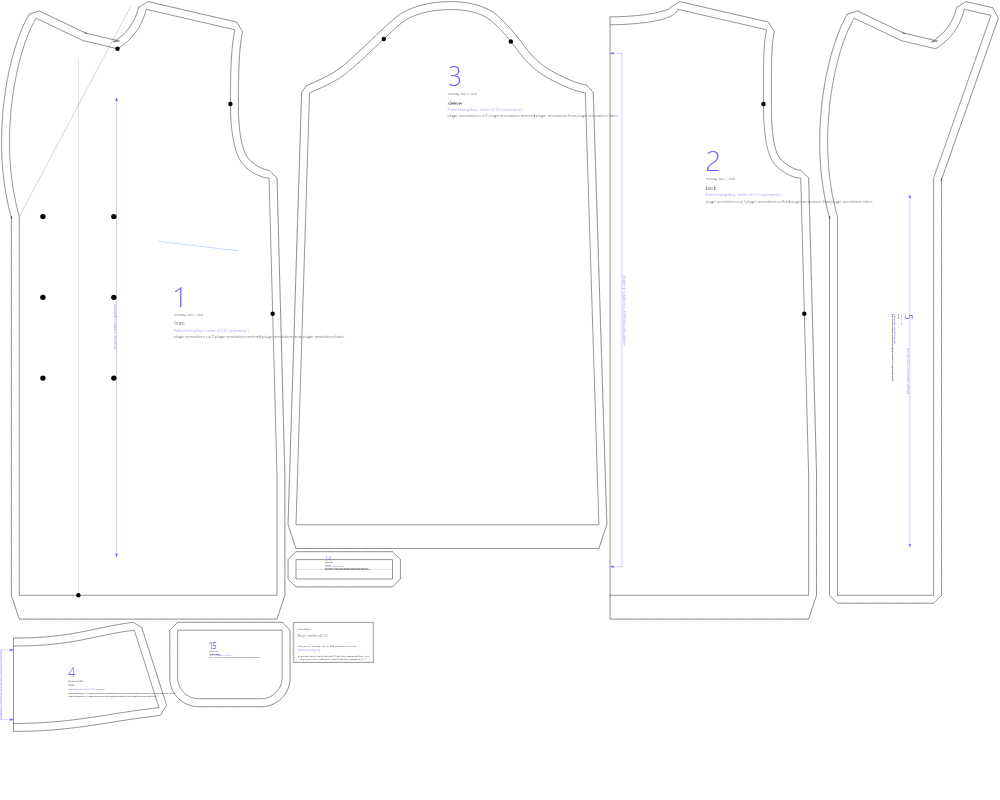
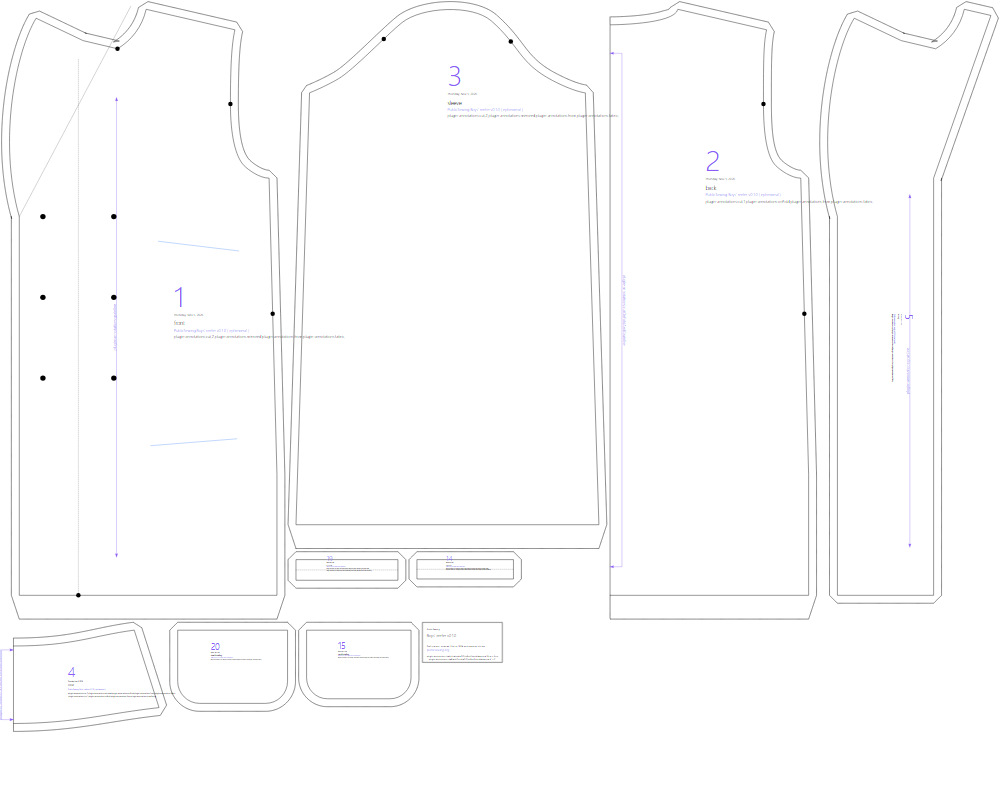
Add reefer lower welt pockets

diff --git a/designs/reefer/BRIEF.md b/designs/reefer/BRIEF.md
@@ -19,15 +19,15 @@ Diagram 23 gives single-breasted and double-breasted outlines on the same back a
 | Front | 2½ in from centre front, with buttons 4 in from edge | `buttonExtension` 8.6% of chest; `buttonRow` 60% of the extension, leaving 1½ in between the button and centre front |
 | Buttons | Three positions on the plate | Three pairs, from near the chest line to below the waist |
 | Collar | Regular collar and turned lapel | Narrower `ulster` collar and lapel on the peacoat's block |
-| Pocket | Slanted chest welt | The block's welt moved above the waist and shortened |
+| Pockets | Slanted chest welt and a lower pocket mark near the seat line | Two pairs of shallow welts: the upper moved above the waist, the lower starts at 38% of the front width and 82% of waist-to-seat below the waist; the lower mouth runs 45% of the front width and rises 8% toward the side |
 | Hem | Level, with spread at the side seams | Level; the Brian coat block has less flare |
 
 ## Changes and what isn't modelled
 
 - The source's single-breasted outline is not a variant: the inherited double-breasted front has two button rows, and a single-breasted version needs a different front draft.
-- The plate's second, lower pocket mark is omitted. The inherited block supplies one pair of welts; the reefer turns that welt to the source's shallow chest angle. Adding another pocket needs a separate placement and bag piece.
+- The lower mark has no drafting or construction instructions in Simons. Its welt and bag use the same construction as the chest welt, with position and angle read from the plate. The lower bag is raised as needed to clear the hem on short sizes.
 - The exact side-seam flare, centre-back shaping, and source collar construction are simplified to the Brian coat block. The source does not detail a lining or vent, so both are off.
 
 ## Pieces and construction
 
-Back, front, facing, collar, sleeves, and welt and pocket-bag pieces. Sew the welts and bags to the fronts; join back and shoulders and sides; add facings and collar; make and set sleeves; finish hem and buttonholes. The front is cut in mirrored pairs and closes right over left.
+Back, front, facing, collar, sleeves, and two pairs each of welt and pocket-bag pieces. Sew both welt pairs and their bags to the fronts; join back and shoulders and sides; add facings and collar; make and set sleeves; finish hem and buttonholes. The front is cut in mirrored pairs and closes right over left.

diff --git a/designs/README.md b/designs/README.md
@@ -78,7 +78,7 @@ without declaring them, so they are listed in our package.json.
 | `cape-overcoat/` | Simons' full-length cape overcoat: a whole back and separate foreparts with a wide button stand and military collar, on the cape family, Simons 1916 pp. 30-31 and 1922 Diagram 38. [BRIEF.md](cape-overcoat/BRIEF.md) | draft (not sewn) | not draped |
 | `dolman-cape/` | Dolman cape: Breanna's body with the shoulder run out and curved over the arm into a straight side seam, a bust dart, small darts on the back, Pivnick 1949 ch. XIX. [BRIEF.md](dolman-cape/BRIEF.md) | draft (not sewn) | not draped |
 | `peacoat/` | Hip-length double-breasted coat: the mackinaw with Simons' D.B. overcoat stand, three-button rows, notched lapel and deep ulster collar, slanted hand-warmer welt pockets, back vent and lining, no belt, on Brian, Simons 1916. [BRIEF.md](peacoat/BRIEF.md) | draft (not sewn) |
-| `reefer/` | Boys' double-breasted reefer: longer than the peacoat, with three button pairs, a narrower notched collar and a high slanted welt, Simons 1922 Diagram 23. [BRIEF.md](reefer/BRIEF.md) | draft (not sewn) | not draped |
+| `reefer/` | Boys' double-breasted reefer: longer than the peacoat, with three button pairs, a narrower notched collar and two pairs of shallow welts, Simons 1922 Diagram 23. [BRIEF.md](reefer/BRIEF.md) | draft (not sewn) | not draped |
 | `womens-box-coat/` | Women's loose box coat: straight body flared from the arms, shaped CB seam, neck dart, notched lapel, collar, buttons near the lapped edge, set-in flap pockets (hip and ticket), two-piece sleeves, on Breanna, Mitchell 1921. [BRIEF.md](womens-box-coat/BRIEF.md) | draft (not sewn) | OK, 2026-10-26 |
 | `girls-coat/` | Girls' coat: the box coat at Sheifer's proportions, to below the knee, a 2½" lap, four buttons, hip flap pockets 3" below the waist, for any size, Sheifer 1908. [BRIEF.md](girls-coat/BRIEF.md) | draft (not sewn) | not draped |
 | `gored-skirt/` | Flared skirt of 5 to 15 gores: a front panel on the fold, gores in pairs, the waist shaping in darts on the seams, flared below the seat, CB zip, waistband, on Sarah, Mitchell 1921 pp. 84–101. [BRIEF.md](gored-skirt/BRIEF.md) | draft (not sewn) | not draped |

diff --git a/BUILD_QUEUE.md b/BUILD_QUEUE.md
@@ -113,7 +113,7 @@ Priority 1 first: shirts, dresses and women's garments are the thinnest part of 
 | 27b | `apron-riding-skirt` | Asymmetric apron riding skirt | Mitchell 1921, pp. 118–121 | — | B | Separate source-scaled Part I and Part II shapes, with long leg strap, short tab and back opening | done (apron-riding-skirt) |
 | 28 | `painters-jacket` | Painter's jacket: knee length, three patch pockets | Vincent 1890, p. 35 | `barbers-coat` | D | As built: on `barbers-coat`, with five buttons and separate button cuffs; pocket and collar geometry approximate Vincent's plate | done (painters-jacket) |
 | 29 | `aprons` | Work aprons (carpenter's, butcher's, barman's…) | Vincent 1890, pp. 39–40 | — | G | As built: one flat-cut pattern with eight selectable diagram styles, scaled from the fixed adult plate dimensions | done (aprons) |
-| 30 | `reefer` | Boys' reefer | Simons 1922, Diagram 23, pp. 74–75 | `peacoat` | D | As built: double-breasted outline on the peacoat, with shorter regular collar and shallow chest welt; the plate's lower pocket and side-seam flare are not modelled | done (reefer) |
+| 30 | `reefer` | Boys' reefer | Simons 1922, Diagram 23, pp. 74–75 | `peacoat` | D | As built: double-breasted outline on the peacoat, with shorter regular collar and two pairs of shallow welts; the side-seam flare is not modelled | done (reefer) |
 
 ### Blocked
 | Item | Needs |

diff --git a/site/illustrations/PROMPTS.md b/site/illustrations/PROMPTS.md
@@ -1351,7 +1351,7 @@ wide ones get cropped. No mannequin, hand, head or handwriting showing. A second
 > Leave out: a symmetrical skirt, culotte leg tubes, a saddle, a horse, a rider or mannequin, pockets, pleats, decorative trim or a belt.
 
 ### reefer: Boys' double-breasted reefer
-> A mid-thigh boys' reefer coat from 1922, in dark navy wool. Straight double-breasted front with three visible buttons in each row, modest notched lapels and a regular narrow collar, a slanted chest welt pocket on each side, long plain sleeves, no belt or back vent. Show it on a standing twelve-year-old in a front three-quarter view, plain background, clean technical editorial illustration.
+> A mid-thigh boys' reefer coat from 1922, in dark navy wool. Straight double-breasted front with three visible buttons in each row, modest notched lapels and a regular narrow collar, a shallow slanted chest welt and a second shallow welt below the waist on each side, long plain sleeves, no belt or back vent. Show it on a standing twelve-year-old in a front three-quarter view, plain background, clean technical editorial illustration.
 >
 > Leave out: broad peacoat lapels, patch pockets, hood, epaulettes, belt, oversized buttons or modern logos.
 

diff --git a/README.md b/README.md
@@ -27,7 +27,7 @@ a check that the pieces sew together into the garment, not a fit result.
 | `chore-coat` | Work coat | Simons 1918 |
 | `mackinaw` | Double-breasted belted mackinaw (convertible, military or shawl collar; raglan option) | Simons 1918 |
 | `peacoat` | Hip-length double-breasted coat: notched lapel and deep ulster collar, hand-warmer pockets, back vent, lining | Simons 1916 |
-| `reefer` | Boys' longer double-breasted reefer with a regular collar, three button pairs and a chest welt | Simons 1922 |
+| `reefer` | Boys' longer double-breasted reefer with a regular collar, three button pairs and two welt pocket pairs | Simons 1922 |
 | `raincoat` | Loose coat to below the knee with a very full sweep, buttoned to the neck under a two-piece collar | Simons 1922 |
 | `overcoat` | Single-breasted overcoat to below the knee, notched lapel, back vent, lined | Simons 1916 |
 | `surtout` | Fitted double-breasted overcoat with a waist seam, a flared skirt, two rows of buttons and side panels | Simons 1916 |
